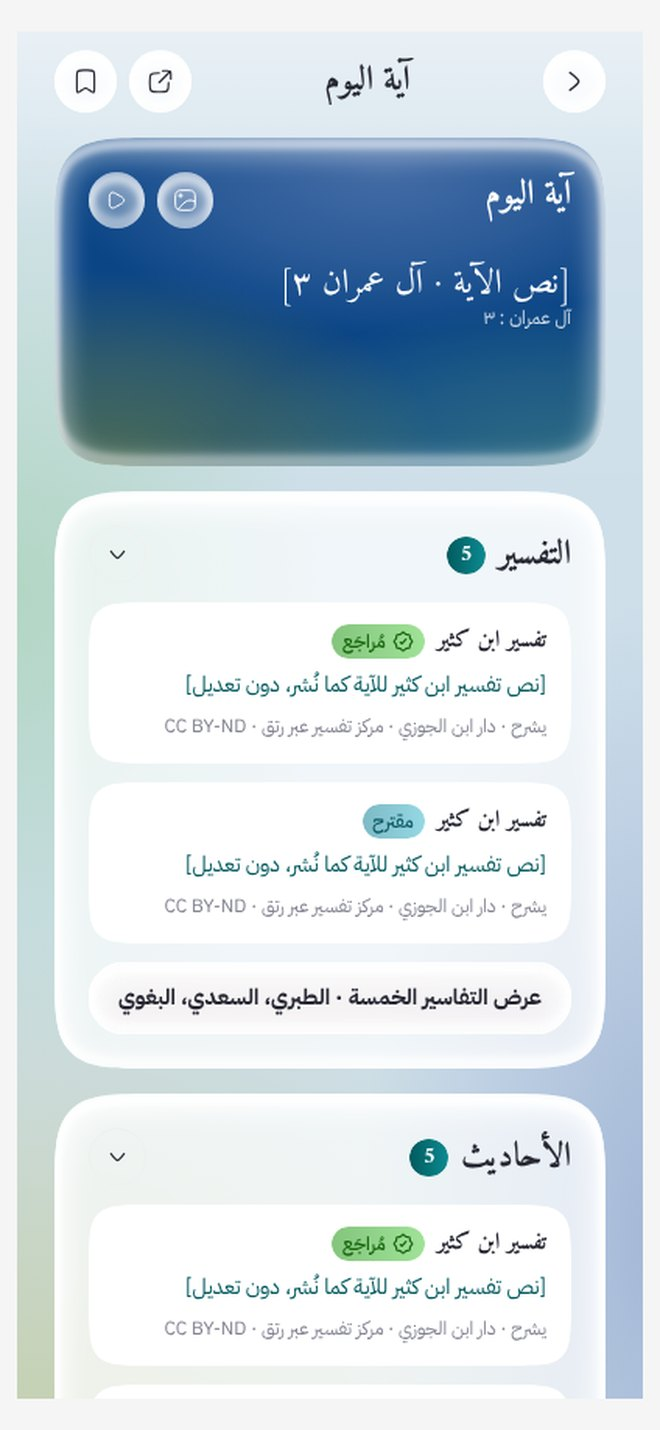
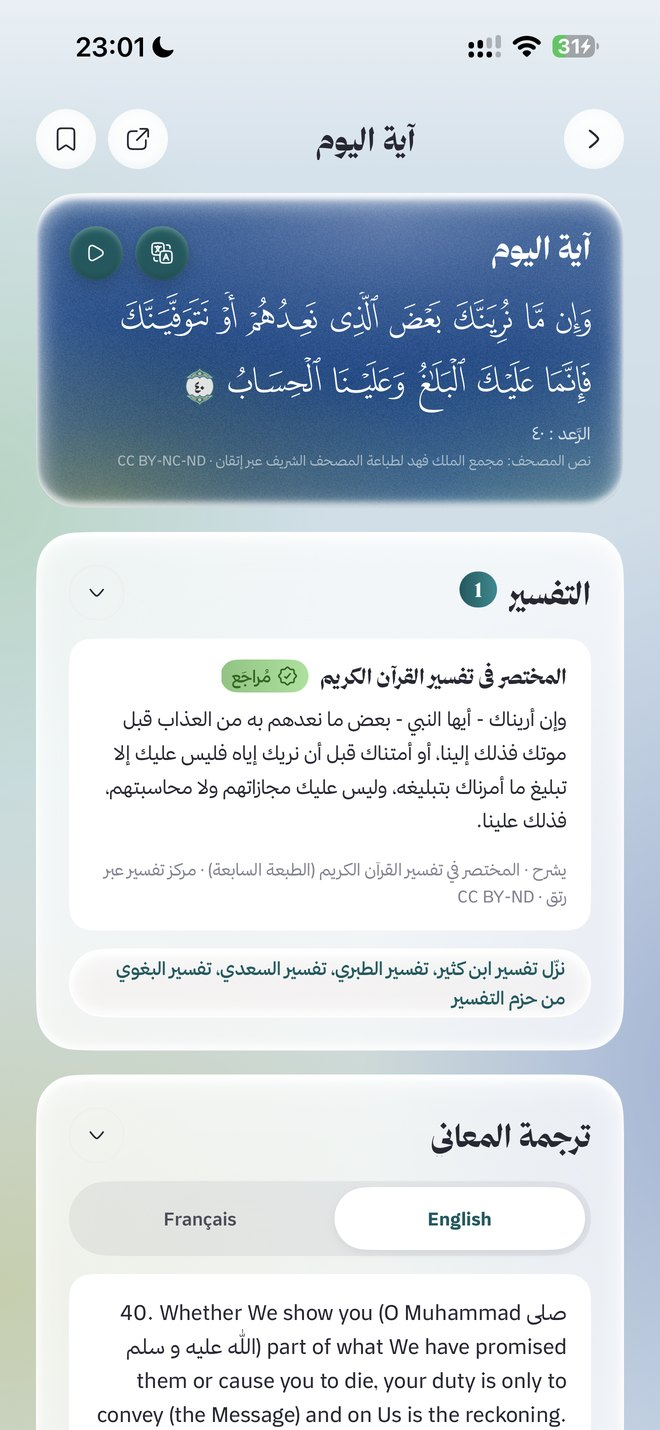
Maknoon: replace seven screens with real app screenshots and add the splash
Claude-Session: https://claude.ai/code/session_01B5ya1KUbNpwCd5gLMSSR59

diff --git a/works.js b/works.js
@@ -76,14 +76,15 @@ window.WORKS = [
     process: 'Sacred text is stored and shown exactly as imported, and every import is checked against its source by count and hash. Every hadith shows its gradings, each attributed to its grader. Links between texts start as suggestions and only a human reviewer can confirm them. Prayer times, qibla and zakat are plain tested code. Every screen is built right to left first.',
     solution: 'The home screen brings the next prayer, the ayah of the day, your wird, adhkar and memorisation review together. The assistant answers with real sources first, and ruling questions are answered from Bidayat al-Mujtahid: each school\'s position, evidence and the cause of disagreement, with your school marked. It never issues a ruling of its own.',
     screens: [
-      { phone: true, src: IMG + 'mk-home.jpg', title: 'Home', desc: 'The next prayer with the day\'s times, the ayah of the day, today\'s wird and adhkar, and the passages due for memorisation review.' },
-      { phone: true, src: IMG + 'mk-quran.jpg', title: 'Quran', desc: 'Pick up where you stopped, follow your khatma plan, open the mushaf or the surah index, listen, and study selected ayat.' },
-      { phone: true, src: IMG + 'mk-mushaf.jpg', title: 'Mushaf', desc: 'The Madinah mushaf page by page, with a real page turn.' },
-      { phone: true, src: IMG + 'mk-mushaf-controls.jpg', title: 'Reading controls', desc: 'Tap the page for zoom, page navigation and search by ayah or surah.' },
-      { phone: true, src: IMG + 'mk-ayah.jpg', title: 'Ayah of the day', desc: 'The ayah with drawers that link it to its tafsir and to related hadith, each with its source and licence.' },
-      { phone: true, src: IMG + 'mk-hadith.jpg', title: 'Hadith', desc: 'The text, then the gradings of the hadith scholars, each attributed to who graded it, then the chain of narration.' },
+      { phone: true, src: IMG + 'mk-splash.jpg', title: 'Splash', desc: 'The Maknoon wordmark in Arabic calligraphy on the app\'s deep teal, with soft arch lines drawn from mosque windows.' },
+      { phone: true, src: IMG + 'mk-home.jpg', title: 'Home', desc: 'The next prayer with a countdown and the day\'s five times for your city, the ayah of the day, today\'s wird and the evening adhkar.' },
+      { phone: true, src: IMG + 'mk-quran.jpg', title: 'Quran', desc: 'Continue where you stopped with your place in the surah, juz and page, start a khatma plan, open the mushaf or the surah index, and listen.' },
+      { phone: true, src: IMG + 'mk-mushaf.jpg', title: 'Mushaf', desc: 'The Madinah mushaf page by page, with a real paper page turn.' },
+      { phone: true, src: IMG + 'mk-mushaf-controls.jpg', title: 'Reading controls', desc: 'Tap the page for help, layers, highlighting, focus mode and the index, with voice recitation one tap away.' },
+      { phone: true, src: IMG + 'mk-ayah.jpg', title: 'Ayah of the day', desc: 'The ayah with audio and translation, its reviewed tafsir with the source and licence, more tafsir to download, and the meaning in English and French.' },
+      { phone: true, src: IMG + 'mk-hadith.jpg', title: 'Hadith', desc: 'The chain of narration, then the text in large type, its reference in Sahih Muslim, the grading, and the source with its licence.' },
       { phone: true, src: IMG + 'mk-library.jpg', title: 'Islamic library', desc: 'Tafsir, hadith, fiqh, creed, seerah, adhkar and Arabic, each shelf with how much of it is in the app.' },
-      { phone: true, src: IMG + 'mk-search.jpg', title: 'Search', desc: 'Root-aware search across the Quran, hadith and tafsir, so one root finds every form of a word, with the assistant one tap away.' },
+      { phone: true, src: IMG + 'mk-search.jpg', title: 'Search', desc: 'Root-aware search across the Quran, hadith, tafsir and fiqh: one root finds every form of a word without the diacritics, with the ayat that use it.' },
       { phone: true, src: IMG + 'mk-fiqh.jpg', title: 'A fiqh question', desc: 'The four schools side by side with your school first, the evidence and the cause of disagreement, each with its reference.' },
       { phone: true, src: IMG + 'mk-zakat.jpg', title: 'Zakat calculator', desc: 'Nisab by gold or silver, the assets a full year has passed on, and 2.5% worked out in plain, tested code.' }
     ],
